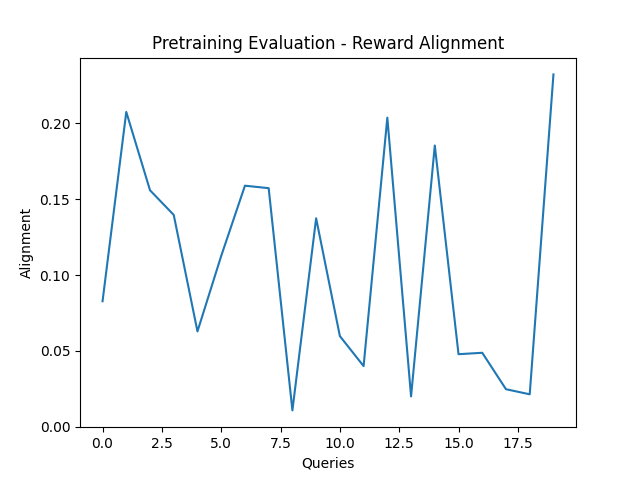
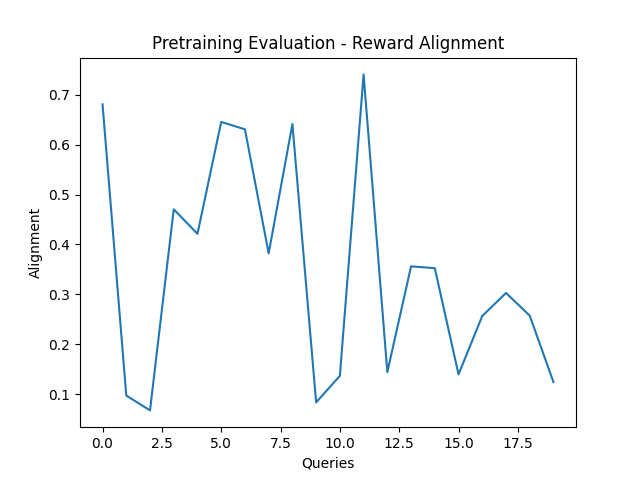
fix some sampling issues

diff --git a/learner.py b/learner.py
@@ -4,7 +4,7 @@ from torch import optim, nn
 import torch
 import numpy as np
 import matplotlib.pyplot as plt
-from query.simulate import response_dist, alignment
+from query.simulate import *
 
 class Learner:
 
@@ -34,6 +34,7 @@ class Learner:
         if self.args.one_reward:
             true_humans, query_seqs, answer_seqs = self.dataset.get_batch_seq(batchsize=1, seqlength=self.args.sequence_length)
             self.global_data = (true_humans, query_seqs, answer_seqs)
+            self.args.batchsize = 1
         # TODO remove above later
 
     def pretrain(self): 
@@ -54,16 +55,18 @@ class Learner:
             self.optimizer.zero_grad()
 
             # get latents from queries and answers
-            hidden = self.encoder.init_hidden()
+            hidden = self.encoder.init_hidden(batchsize=self.args.batchsize)
             loss = 0
 
             # manually handle hidden inputs for gru for sequence
             for t in range(self.args.sequence_length):
-                beliefs, hidden = self.encoder(query_seqs[t, :, :], answer_seqs[t, :], hidden)
+                queries, answers = query_seqs[t, :, :].unsqueeze(0), answer_seqs[t, :, :].unsqueeze(0)
+
+                beliefs, hidden = self.encoder(queries, answers, hidden)
                 hidden = hidden.detach()
 
                 # compute predicted response at timestep for each sequence
-                inputs = response_dist(self.args, query_seqs[t, :, :], beliefs)
+                inputs = response_dist(self.args, queries, beliefs)
 
                 # get inputs and targets for cross entropy loss
                 inputs = inputs.view(-1, self.args.query_size)
@@ -102,17 +105,20 @@ class Learner:
             # when we're not doing a singular batch experiment, we select a different test batch
             if self.args.one_reward:
                 true_humans, query_seqs, answer_seqs = self.global_data
+                true_humans = true_humans.unsqueeze(0)
             else:
                 true_humans, query_seqs, answer_seqs = self.dataset.get_batch_seq(batchsize=self.args.batchsize, seqlength=self.args.sequence_length)
 
-
-            hidden = self.encoder.init_hidden()
+            hidden = self.encoder.init_hidden(batchsize=self.args.batchsize)
 
             for t in range(self.args.sequence_length):
-                beliefs, hidden = self.encoder(query_seqs[t, :, :], answer_seqs[t, :], hidden)
+                queries, answers = query_seqs[t, :, :].unsqueeze(0), answer_seqs[t, :, :].unsqueeze(0)
 
-                # compute predicted response at each timestep for each sequence
-                inputs = response_dist(self.args, query_seqs[t, :, :], beliefs)
+                beliefs, hidden = self.encoder(queries, answers, hidden)
+                hidden = hidden.detach()
+
+                # compute predicted response at timestep for each sequence
+                inputs = response_dist(self.args, queries, beliefs)
 
                 # get inputs and targets for cross entropy loss
                 inputs = inputs.view(-1, self.args.query_size)
@@ -172,7 +178,7 @@ class Learner:
             # same reward used for testing and training
             if self.args.one_reward:
                 true_humans, query_seqs, answer_seqs = self.global_data
-                queries, answers = query_seqs[0], answer_seqs[0]
+                queries, answers = query_seqs[0].unsqueeze(0), answer_seqs[0].unsqueeze(0)
             else:
                 true_humans, queries, answers = self.dataset.get_batch(batchsize=self.args.batchsize)
 
@@ -182,7 +188,7 @@ class Learner:
                 self.optimizer.zero_grad()
 
                 # initialize hidden and loss variables
-                hidden = self.encoder.init_hidden()
+                hidden = self.encoder.init_hidden(batchsize=self.args.batchsize)
                 loss = 0
 
                 # manually handle hidden inputs for gru for sequence
@@ -207,10 +213,13 @@ class Learner:
 
                     # get next queries
                     curr_queries = self.policy.run_policy(curr_queries, beliefs)
-
                     # get next answers (in the case of an actual human, would be replaced with labeling step)
                     answer_dist = response_dist(self.args, curr_queries, true_humans)
-                    curr_answers = torch.multinomial(answer_dist, 1)
+                    curr_answers = sample_dist(answer_dist)
+
+                    # reshape to have sequence dim of 1
+                    curr_queries = curr_queries.unsqueeze(0)
+                    curr_answers = curr_answers.unsqueeze(0)
                 
                 loss /= self.args.sequence_length
                 loss.backward()     
@@ -246,16 +255,20 @@ class Learner:
             # same reward used for testing and training
             if self.args.one_reward:
                 true_humans, query_seqs, answer_seqs = self.global_data
+                true_humans = true_humans.unsqueeze(0)
             else:
                 true_humans, query_seqs, answer_seqs = self.dataset.get_batch_seq(batchsize=self.args.batchsize, seqlength=self.args.sequence_length)
 
-            hidden = self.encoder.init_hidden()
+            hidden = self.encoder.init_hidden(batchsize=self.args.batchsize)
 
             for t in range(self.args.sequence_length):
-                beliefs, hidden = self.encoder(query_seqs[t, :, :], answer_seqs[t, :], hidden)
+                queries, answers = query_seqs[t, :, :].unsqueeze(0), answer_seqs[t, :, :].unsqueeze(0)
+
+                # get beliefs and hidden
+                beliefs, hidden = self.encoder(queries, answers, hidden)
 
                 # compute predicted response at each timestep for each sequence
-                inputs = response_dist(self.args, query_seqs[t, :, :], beliefs)
+                inputs = response_dist(self.args, queries, beliefs)
 
                 # get inputs and targets for cross entropy loss
                 inputs = inputs.view(-1, self.args.query_size)

diff --git a/storage/vae_storage.py b/storage/vae_storage.py
@@ -1,7 +1,7 @@
 import numpy as np
 import torch
 import torch.nn.functional as F
-from query.simulate import response_dist
+from query.simulate import response_dist, sample_dist
 
 device = torch.device("cuda:0" if torch.cuda.is_available() else "cpu")
 
@@ -23,7 +23,12 @@ class VAEStorage:
         self.idx = 0
 
         self.queries = torch.zeros((self.buffer_size, args.query_size * args.num_features))
-        
+
+    def get_random_true_rewards(self, batchsize=5):
+        true_rewards = torch.normal(0, 1, (batchsize, self.args.num_features))
+        true_rewards = true_rewards / (torch.norm(true_rewards, 1).unsqueeze(-1))
+        return true_rewards
+
     def get_random_queries(self, batchsize=5):
          # select random indices for queries
         size = min(self.buffer_len, batchsize)
@@ -35,8 +40,8 @@ class VAEStorage:
         # get batchsize queries and responses from dataset
         queries = self.get_random_queries(batchsize=batchsize)
 
-        true_rewards = torch.rand((batchsize, self.args.num_features))
-        true_rewards = true_rewards / (torch.norm(true_rewards, 1).unsqueeze(-1))
+        # get true rewards
+        true_rewards = self.get_random_true_rewards(batchsize=batchsize)
 
         dists = response_dist(self.args, queries, true_rewards)
         answers = []
@@ -48,12 +53,6 @@ class VAEStorage:
         return true_rewards, queries, answers
 
     def get_batch_seq(self, batchsize=5, seqlength=10):
-        # get batchsize sequences queries from dataset
-
-        # generate true humans for each query sequence
-        true_rewards = torch.rand((batchsize, self.args.num_features))
-        true_rewards = true_rewards / (torch.linalg.norm(true_rewards, dim=1).unsqueeze(-1))
-
         # generate query sequences
         query_seqs = []
         for _ in range(seqlength):
@@ -62,12 +61,15 @@ class VAEStorage:
             query_seqs.append(queries)
         query_seqs = torch.stack(query_seqs)
 
+        # get true rewards for each query sequence
+        true_rewards = self.get_random_true_rewards(batchsize=batchsize)
+
         # generate answer sequences
         # detach rewards to prevent gradients
         dists = response_dist(self.args, query_seqs, true_rewards)
         answer_seqs = []
         for t in range(seqlength):
-            answer_seq = torch.multinomial(dists[t], 1)
+            answer_seq = sample_dist(dists[t])
             answer_seqs.append(answer_seq)
         answer_seqs = torch.stack(answer_seqs)
 

diff --git a/models/encoder.py b/models/encoder.py
@@ -53,7 +53,7 @@ class Encoder(nn.Module):
         input_answer = self.fc_input_answer(answer.to(torch.float32))
         input_answer = F.relu(input_answer)
         
-        input = torch.cat((input_query, input_answer), 1)
+        input = torch.cat((input_query, input_answer), -1)
         output = self.fc_input(input)
         output = F.relu(output)
 
@@ -67,12 +67,11 @@ class Encoder(nn.Module):
 
         # output belief distribution and belief sample
         mu = self.fc_mu(output)
-        mu = F.relu(mu)
         logvar = self.fc_logvar(output)
         belief = self.reparameterize(mu, logvar)
 
         return belief, hidden
 
-    def init_hidden(self):
-        hidden = torch.zeros((1, self.hidden_dim))
+    def init_hidden(self, batchsize):
+        hidden = torch.zeros((1, batchsize, self.hidden_dim))
         return hidden

diff --git a/query/simulate.py b/query/simulate.py
@@ -2,6 +2,11 @@ import numpy as np
 import torch
 from torch.nn.functional import softmax
 
+def sample_dist(dist):
+    probs = softmax(dist, dim=-1)
+    sample = torch.multinomial(probs, 1)
+    return sample
+
 def response_dist(args, query, w):
     trajs = torch.reshape(query, (*query.shape[:-1], args.query_size, args.num_features))
     w = w.unsqueeze(-2)
